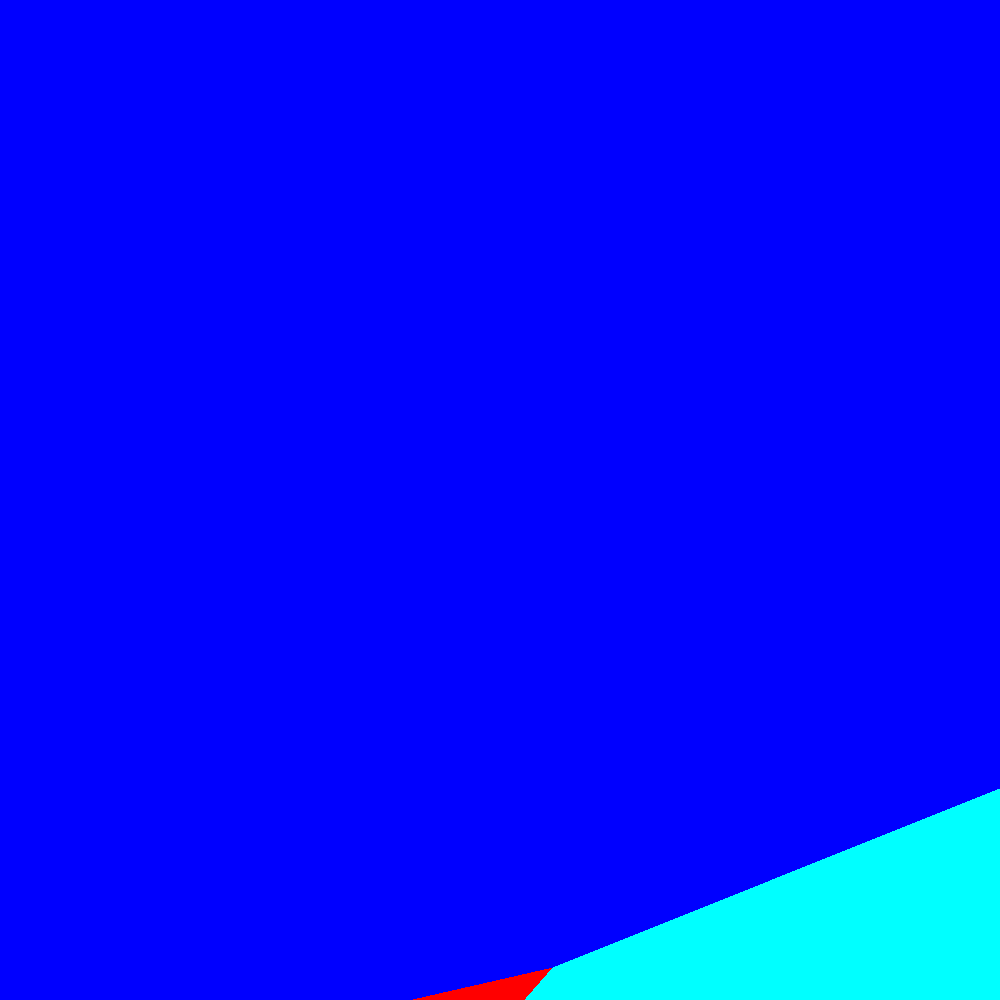
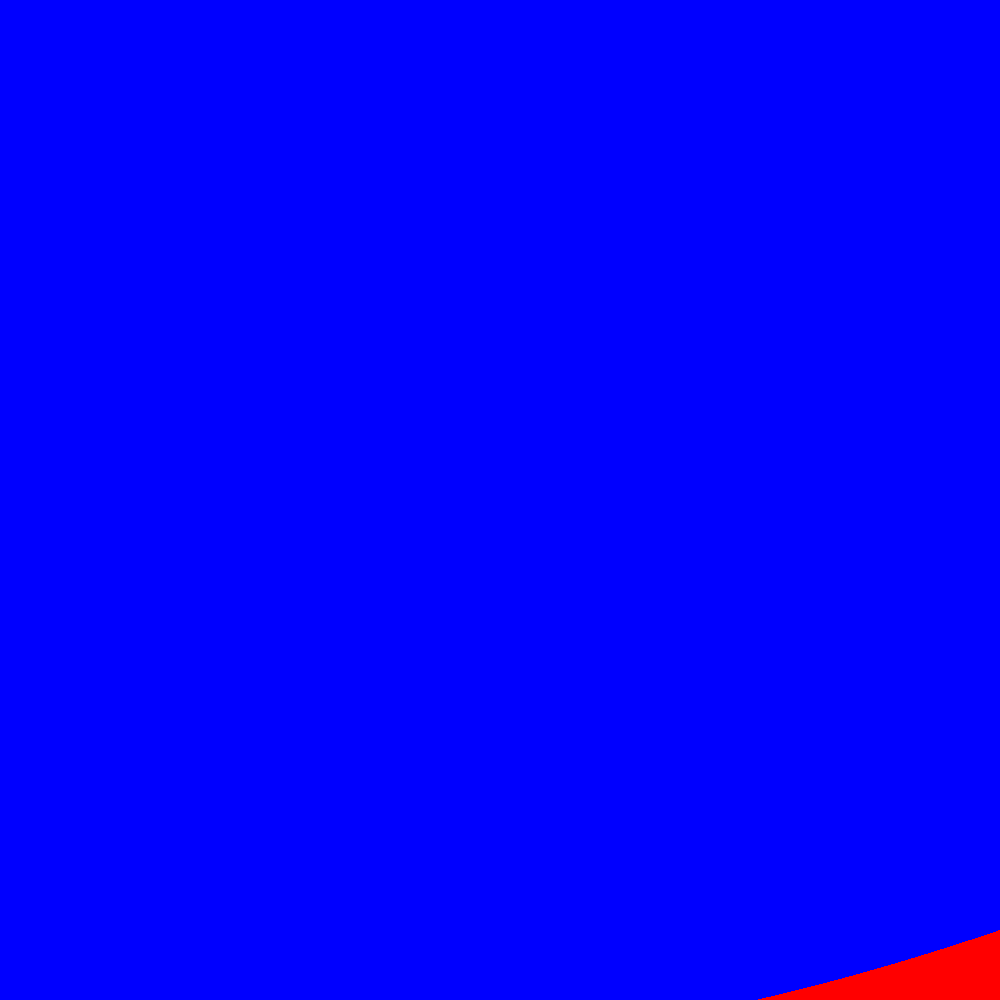
Optimized NN

Changed region(s): [[0.403, 0.775, 1.0, 1.0]]

diff --git a/common/js_objects/model.js b/common/js_objects/model.js
@@ -1,1 +1,1 @@
-const model = {"neuronCounts":[5,10,8],"classes":["car","fish","house","tree","bicycle","guitar","pencil","clock"],"network":{"levels":[{"weights":[[-1.2414475337443767,1.65983389734954,1.437776599521415,-2.5455626528383197,0.8130862209094679,-0.022797045160114344,-0.18037780626025016,1.0456370673056725,0.12005885137058109,-1.4883108247420285],[0.3453642976526688,-1.018917391940757,-0.7853009817308181,2.0100815827048786,-2.629772521346396,0.8145630426343907,-2.0874356862687056,-1.0004146200532267,-0.595944753749236,-0.916921285478661],[2.0269343240220015,5.987438669750727,1.8856417181869451,1.4681967106610818,1.1680693843896823,3.913443257705444,-3.4406026986755145,-6.655541738519932,5.533441828136925,5.395200874070873],[-1.745784870396446,-1.8352874265741468,1.7235653693678794,1.4550378636212116,1.6339002381382217,1.032288532517543,1.3532339696670628,2.092447410062567,0.2453612214843151,-0.12251635627878303],[0.40985837153949684,1.2498619341933241,1.4398009180383275,-0.16953760271935328,-0.3652793991366471,1.9310062409426194,0.9123908419574916,0.9269995275000796,-5.374850639186507,-1.530276840913585]],"biases":[0.4265813963190725,1.2214986154358944,-1.8091089380413607,-1.3030736962621663,-0.7304310232845826,-0.6771245383009734,-0.24224386817010196,-1.4382404213259465,0.2719663240713591,0.1568015104473789],"inputs":[0.18,0.44794188861985473,0.0813202658847764,0.7407592880819288,0.23280371451521267],"outputs":[-0.6751349922615832,0.48221933403476713,-0.13679941127529283,0.2968827418710889,-0.5417846842176772,1.2161138916157161,-0.2747238741605834,-0.4735750001214616,-0.5929223304848755,-0.5300919824147724]},{"weights":[[-0.7999743666550346,-1.569231648470854,-0.1657336330209294,-0.9188866356952794,-0.6507884815379888,0.9995677703129613,1.7806751662767422,0.1351821645608244],[0.9482579926030748,1.7340352319954973,-0.6639153455107875,-1.7614295029768317,1.625100379471403,1.8437869316710236,0.045597614015591315,-3.2020248740073285],[5.679286809008017,-1.894066882187517,-3.3379260653366534,-0.6557361327295185,-2.8131955080787985,-0.4184086707509511,0.0646949757368949,5.818063937440508],[-1.2199731732119639,-1.5084733891074602,-0.5338220807531089,2.698875714753349,-2.941489694461885,-0.3682166021610044,-1.1125085651173716,6.000275740103286],[3.534557333971332,0.8745334857677816,-1.0061771456503075,-3.719758701635293,0.6085575358414047,0.7864931009984364,-2.7302057009173586,2.7858635666892475],[-0.35865044356231307,-0.8998363652405137,-0.35801791761131446,-0.0674033600035629,-0.2543443626842589,-1.3300955582130078,0.12078909091164815,4.499787080467891],[1.0506571674799086,1.2546346600534406,1.5481750083585695,-1.456185116087213,3.474340841568542,-1.3609972536708705,-2.534608434263948,0.02712308380628704],[0.5166443109295269,0.04706344613755969,0.5791035548467223,2.8847540131296086,1.959193876230101,-5.309771474964999,-0.2867925498942009,0.782978621016748],[1.653136285020549,0.7854701659380381,-2.537962223006295,2.308412941721015,-1.4748141375982942,-2.2380327144819505,0.9249425149022581,1.970198346747564],[-0.0891904049233233,1.0079995336407257,-1.3984222846852417,-0.728675547164695,-0.7336855806588225,-2.5578145356096527,2.596413986412754,1.240579319806658]],"biases":[-1.1581393646946339,0.840854125847253,0.29641657426284185,-0.26198248886687214,-0.9862289156205444,-1.8998597337026966,-0.5272686100274411,1.2980897058605645],"inputs":[-0.6751349922615832,0.48221933403476713,-0.13679941127529283,0.2968827418710889,-0.5417846842176772,1.2161138916157161,-0.2747238741605834,-0.4735750001214616,-0.5929223304848755,-0.5300919824147724],"outputs":[-5.117233964701878,-0.3873836346644739,2.0425782100817056,0.3847436597772321,-1.5095954548199315,1.7900001129652465,-1.5131566547295052,2.4070849458918957]}]}};
+const model = {"neuronCounts":[5,10,8],"classes":["car","fish","house","tree","bicycle","guitar","pencil","clock"],"network":{"levels":[{"weights":[[-1.2414475337443767,1.65983389734954,1.437776599521415,-2.5455626528383197,0.8130862209094679,-0.022797045160114344,-0.18037780626025016,1.0456370673056725,0.12005885137058109,-1.4883108247420285],[0.3453642976526688,-1.018917391940757,-0.7853009817308181,2.0100815827048786,-2.629772521346396,0.8145630426343907,-2.0874356862687056,-1.0004146200532267,-0.595944753749236,-0.916921285478661],[2.0269343240220015,5.987438669750727,1.8856417181869451,1.4681967106610818,1.1680693843896823,3.913443257705444,-3.4406026986755145,-6.655541738519932,5.533441828136925,5.395200874070873],[-1.745784870396446,-1.8352874265741468,1.7235653693678794,1.4550378636212116,1.6339002381382217,1.032288532517543,1.3532339696670628,2.092447410062567,0.2453612214843151,-0.12251635627878303],[0.40985837153949684,1.2498619341933241,1.4398009180383275,-0.16953760271935328,-0.3652793991366471,1.9310062409426194,0.9123908419574916,0.9269995275000796,-5.374850639186507,-1.530276840913585]],"biases":[0.4265813963190725,1.2214986154358944,-1.8091089380413607,-1.3030736962621663,-0.7304310232845826,-0.6771245383009734,-0.24224386817010196,-1.4382404213259465,0.2719663240713591,0.1568015104473789],"inputs":[0.18,0.44794188861985473,0.0813202658847764,0.7407592880819288,0.23280371451521267],"outputs":[-0.5883475277187388,0.44801923940713884,-0.13595239285207109,0.28845731067701036,-0.494337717372072,0.8385041011516097,-0.2680149098233947,-0.4410833180366097,-0.531994123132484,-0.4854513993020081]},{"weights":[[-0.7999743666550346,-1.569231648470854,-0.1657336330209294,-0.9188866356952794,-0.6507884815379888,0.9995677703129613,1.7806751662767422,0.1351821645608244],[0.9482579926030748,1.7340352319954973,-0.6639153455107875,-1.7614295029768317,1.625100379471403,1.8437869316710236,0.045597614015591315,-3.2020248740073285],[5.679286809008017,-1.894066882187517,-3.3379260653366534,-0.6557361327295185,-2.8131955080787985,-0.4184086707509511,0.0646949757368949,5.818063937440508],[-1.2199731732119639,-1.5084733891074602,-0.5338220807531089,2.698875714753349,-2.941489694461885,-0.3682166021610044,-1.1125085651173716,6.000275740103286],[3.534557333971332,0.8745334857677816,-1.0061771456503075,-3.719758701635293,0.6085575358414047,0.7864931009984364,-2.7302057009173586,2.7858635666892475],[-0.35865044356231307,-0.8998363652405137,-0.35801791761131446,-0.0674033600035629,-0.2543443626842589,-1.3300955582130078,0.12078909091164815,4.499787080467891],[1.0506571674799086,1.2546346600534406,1.5481750083585695,-1.456185116087213,3.474340841568542,-1.3609972536708705,-2.534608434263948,0.02712308380628704],[0.5166443109295269,0.04706344613755969,0.5791035548467223,2.8847540131296086,1.959193876230101,-5.309771474964999,-0.2867925498942009,0.782978621016748],[1.653136285020549,0.7854701659380381,-2.537962223006295,2.308412941721015,-1.4748141375982942,-2.2380327144819505,0.9249425149022581,1.970198346747564],[-0.0891904049233233,1.0079995336407257,-1.3984222846852417,-0.728675547164695,-0.7336855806588225,-2.5578145356096527,2.596413986412754,1.240579319806658]],"biases":[-1.1581393646946339,0.840854125847253,0.29641657426284185,-0.26198248886687214,-0.9862289156205444,-1.8998597337026966,-0.5272686100274411,1.2980897058605645],"inputs":[-0.5883475277187388,0.44801923940713884,-0.13595239285207109,0.28845731067701036,-0.494337717372072,0.8385041011516097,-0.2680149098233947,-0.4410833180366097,-0.531994123132484,-0.4854513993020081],"outputs":[-0.9998591067637679,-0.08746570779752211,0.9604874326092078,0.3652953478072859,-0.9069354844368502,0.9582307593908308,-0.8809425842404381,0.8064389629394941]}]}};

diff --git a/common/network.js b/common/network.js
@@ -52,7 +52,7 @@ class Level {
                 sum += level.inputs[j] * level.weights[j][i];
             }
 
-            level.outputs[i] = sum + level.biases[i];
+            level.outputs[i] = Math.tanh(sum + level.biases[i]);
         }
 
         return level.outputs;
